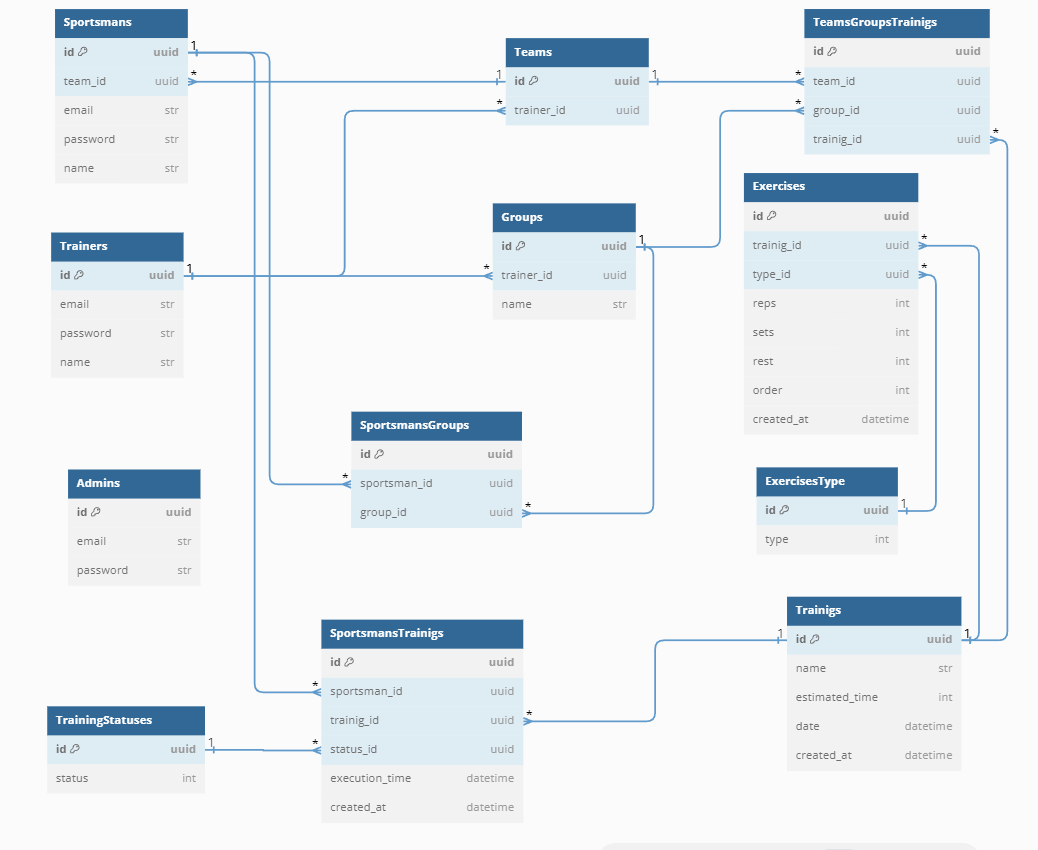
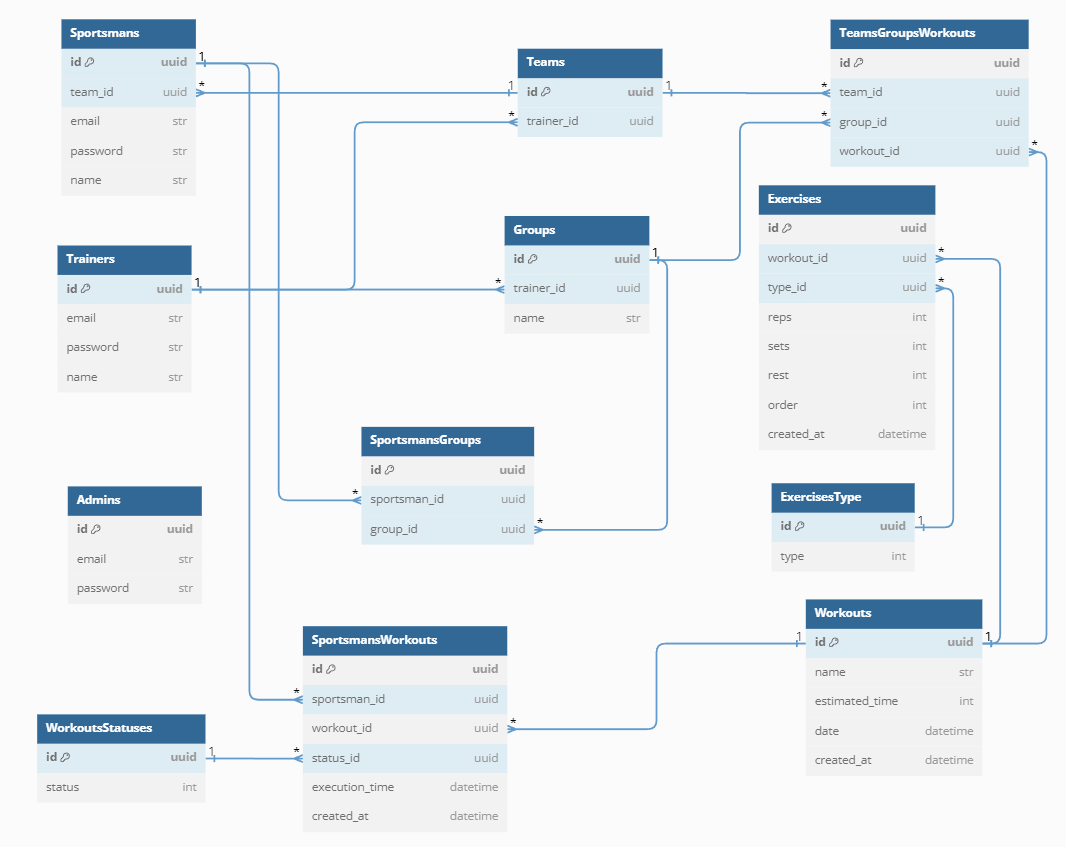
.

Changed region(s): [[0.0308, 0.0, 0.9865, 0.9823]]

diff --git a/migrations/versions/914d4fa8f982_create_tables.py b/migrations/versions/914d4fa8f982_create_tables.py
@@ -1,8 +1,8 @@
 """create_tables
 
-Revision ID: 85a2b282b9c0
+Revision ID: 914d4fa8f982
 Revises:
-Create Date: 2023-10-24 16:41:20.303079
+Create Date: 2023-10-24 17:12:15.605343
 
 """
 
@@ -12,7 +12,7 @@ import sqlalchemy as sa
 from alembic import op
 
 # revision identifiers, used by Alembic.
-revision: str = "85a2b282b9c0"
+revision: str = "914d4fa8f982"
 down_revision: Union[str, None] = None
 branch_labels: Union[str, Sequence[str], None] = None
 depends_on: Union[str, Sequence[str], None] = None
@@ -65,7 +65,7 @@ def upgrade() -> None:
         sa.PrimaryKeyConstraint("id"),
     )
     op.create_table(
-        "trainigs",
+        "workouts",
         sa.Column("name", sa.String(), nullable=False),
         sa.Column("estimated_time", sa.Integer(), nullable=False),
         sa.Column("date", sa.DateTime(), nullable=False),
@@ -78,7 +78,7 @@ def upgrade() -> None:
         sa.PrimaryKeyConstraint("id"),
     )
     op.create_table(
-        "trainigs_statuses",
+        "workouts_statuses",
         sa.Column("status", sa.Integer(), nullable=False),
         sa.Column(
             "id", sa.UUID(), server_default=sa.text("gen_random_uuid()"), nullable=False
@@ -87,7 +87,7 @@ def upgrade() -> None:
     )
     op.create_table(
         "exercises",
-        sa.Column("trainig_id", sa.UUID(), nullable=False),
+        sa.Column("workout_id", sa.UUID(), nullable=False),
         sa.Column("type_id", sa.UUID(), nullable=False),
         sa.Column("reps", sa.Integer(), nullable=True),
         sa.Column("sets", sa.Integer(), nullable=True),
@@ -99,10 +99,10 @@ def upgrade() -> None:
         sa.Column(
             "id", sa.UUID(), server_default=sa.text("gen_random_uuid()"), nullable=False
         ),
-        sa.ForeignKeyConstraint(["trainig_id"], ["trainigs.id"], ondelete="CASCADE"),
         sa.ForeignKeyConstraint(
             ["type_id"], ["exercises_types.id"], ondelete="CASCADE"
         ),
+        sa.ForeignKeyConstraint(["workout_id"], ["workouts.id"], ondelete="CASCADE"),
         sa.PrimaryKeyConstraint("id"),
     )
     op.create_table(
@@ -150,9 +150,9 @@ def upgrade() -> None:
         sa.PrimaryKeyConstraint("id"),
     )
     op.create_table(
-        "sportsmans_trainigs",
+        "sportsmans_workouts",
         sa.Column("sportsman_id", sa.UUID(), nullable=False),
-        sa.Column("trainig_id", sa.UUID(), nullable=False),
+        sa.Column("workout_id", sa.UUID(), nullable=False),
         sa.Column("status_id", sa.UUID(), nullable=False),
         sa.Column("execution_time", sa.Integer(), nullable=False),
         sa.Column(
@@ -165,9 +165,9 @@ def upgrade() -> None:
             ["sportsman_id"], ["sportsmans.id"], ondelete="CASCADE"
         ),
         sa.ForeignKeyConstraint(
-            ["status_id"], ["trainigs_statuses.id"], ondelete="CASCADE"
+            ["status_id"], ["workouts_statuses.id"], ondelete="CASCADE"
         ),
-        sa.ForeignKeyConstraint(["trainig_id"], ["trainigs.id"], ondelete="CASCADE"),
+        sa.ForeignKeyConstraint(["workout_id"], ["workouts.id"], ondelete="CASCADE"),
         sa.PrimaryKeyConstraint("id"),
     )
     # ### end Alembic commands ###
@@ -175,14 +175,14 @@ def upgrade() -> None:
 
 def downgrade() -> None:
     # ### commands auto generated by Alembic - please adjust! ###
-    op.drop_table("sportsmans_trainigs")
+    op.drop_table("sportsmans_workouts")
     op.drop_table("sportsmans_groups")
     op.drop_table("sportsmans")
     op.drop_table("teams")
     op.drop_table("groups")
     op.drop_table("exercises")
-    op.drop_table("trainigs_statuses")
-    op.drop_table("trainigs")
+    op.drop_table("workouts_statuses")
+    op.drop_table("workouts")
     op.drop_table("trainers")
     op.drop_table("sessions")
     op.drop_table("exercises_types")

diff --git a/app/models/sportsmans_workouts.py b/app/models/sportsmans_workouts.py
@@ -9,8 +9,8 @@ from app.db.base_class import Base
 from app.db.mixins import UUIDAsIDMixin
 
 
-class SportsmansTrainigs(Base, UUIDAsIDMixin):
-    __tablename__ = "sportsmans_trainigs"
+class SportsmansWorkouts(Base, UUIDAsIDMixin):
+    __tablename__ = "sportsmans_workouts"
 
     sportsman_id: Mapped[int] = mapped_column(
         ForeignKey(
@@ -18,15 +18,15 @@ class SportsmansTrainigs(Base, UUIDAsIDMixin):
             ondelete="CASCADE",
         )
     )
-    trainig_id: Mapped[UUID] = mapped_column(
+    workout_id: Mapped[UUID] = mapped_column(
         ForeignKey(
-            column="trainigs.id",
+            column="workouts.id",
             ondelete="CASCADE",
         )
     )
     status_id: Mapped[UUID] = mapped_column(
         ForeignKey(
-            column="trainigs_statuses.id",
+            column="workouts_statuses.id",
             ondelete="CASCADE",
         )
     )

diff --git a/app/models/__init__.py b/app/models/__init__.py
@@ -8,8 +8,8 @@ from .groups import Groups
 from .sessions import Sessions
 from .sportsmans import Sportsmans
 from .sportsmans_groups import SportsmansGroups
-from .sportsmans_trainigs import SportsmansTrainigs
+from .sportsmans_workouts import SportsmansWorkouts
 from .teams import Teams
 from .trainers import Trainers
-from .trainigs import Trainigs
-from .trainigs_statuses import TrainigsStatuses
+from .workouts import Workouts
+from .workouts_statuses import WorkoutsStatuses

diff --git a/app/models/exercises.py b/app/models/exercises.py
@@ -12,9 +12,9 @@ from app.db.mixins import UUIDAsIDMixin
 class Exercises(Base, UUIDAsIDMixin):
     __tablename__ = "exercises"
 
-    trainig_id: Mapped[UUID] = mapped_column(
+    workout_id: Mapped[UUID] = mapped_column(
         ForeignKey(
-            column="trainigs.id",
+            column="workouts.id",
             ondelete="CASCADE",
         )
     )

diff --git a/app/models/workouts_statuses.py b/app/models/workouts_statuses.py
@@ -4,7 +4,7 @@ from app.db.base_class import Base
 from app.db.mixins import UUIDAsIDMixin
 
 
-class TrainigsStatuses(Base, UUIDAsIDMixin):
-    __tablename__ = "trainigs_statuses"
+class WorkoutsStatuses(Base, UUIDAsIDMixin):
+    __tablename__ = "workouts_statuses"
 
     status: Mapped[int]

diff --git a/app/models/workouts.py b/app/models/workouts.py
@@ -7,8 +7,8 @@ from app.db.base_class import Base
 from app.db.mixins import UUIDAsIDMixin
 
 
-class Trainigs(Base, UUIDAsIDMixin):
-    __tablename__ = "trainigs"
+class Workouts(Base, UUIDAsIDMixin):
+    __tablename__ = "workouts"
 
     name: Mapped[str]
     estimated_time: Mapped[int]

diff --git a/app/api/endpoints/trainers/workouts.py b/app/api/endpoints/trainers/workouts.py
@@ -18,7 +18,8 @@ router = EndPointRouter()
 )
 @deps.auth_required(users=[UsersTypes.TRAINER])
 @inject
-async def get_profile(
+async def create_training(
+    create_training_in,
     self_trainer: Trainers = Depends(deps.self_trainer),
 ) -> Any:
     return self_trainer
